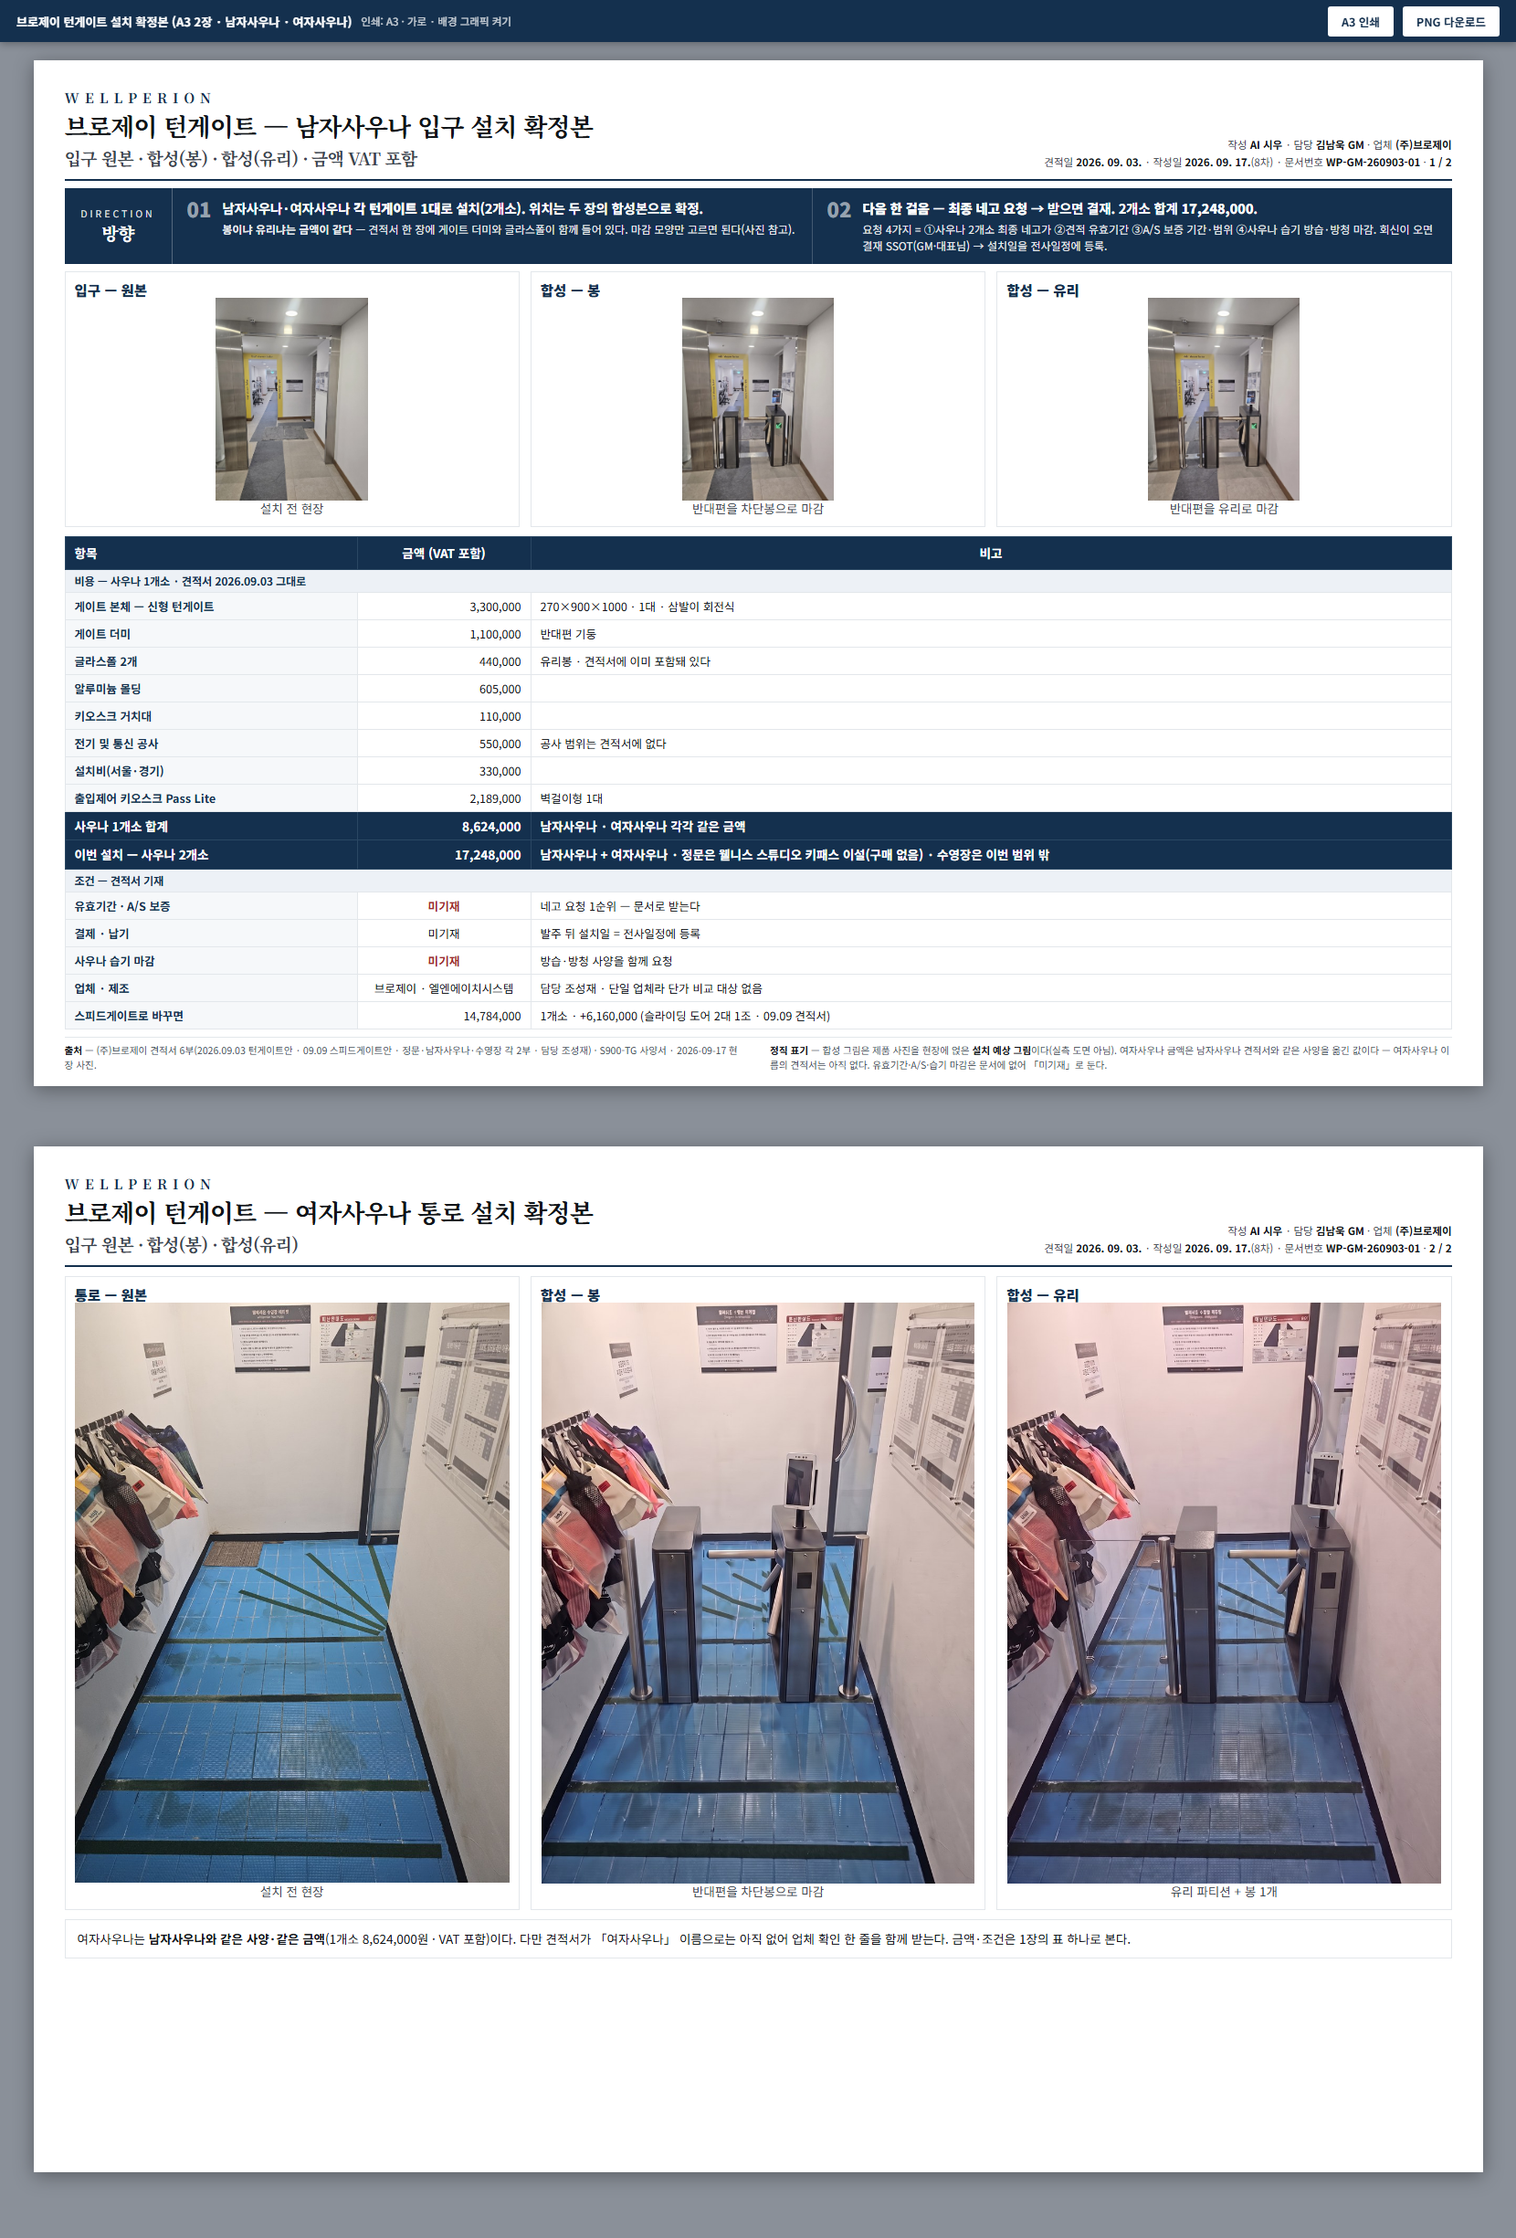
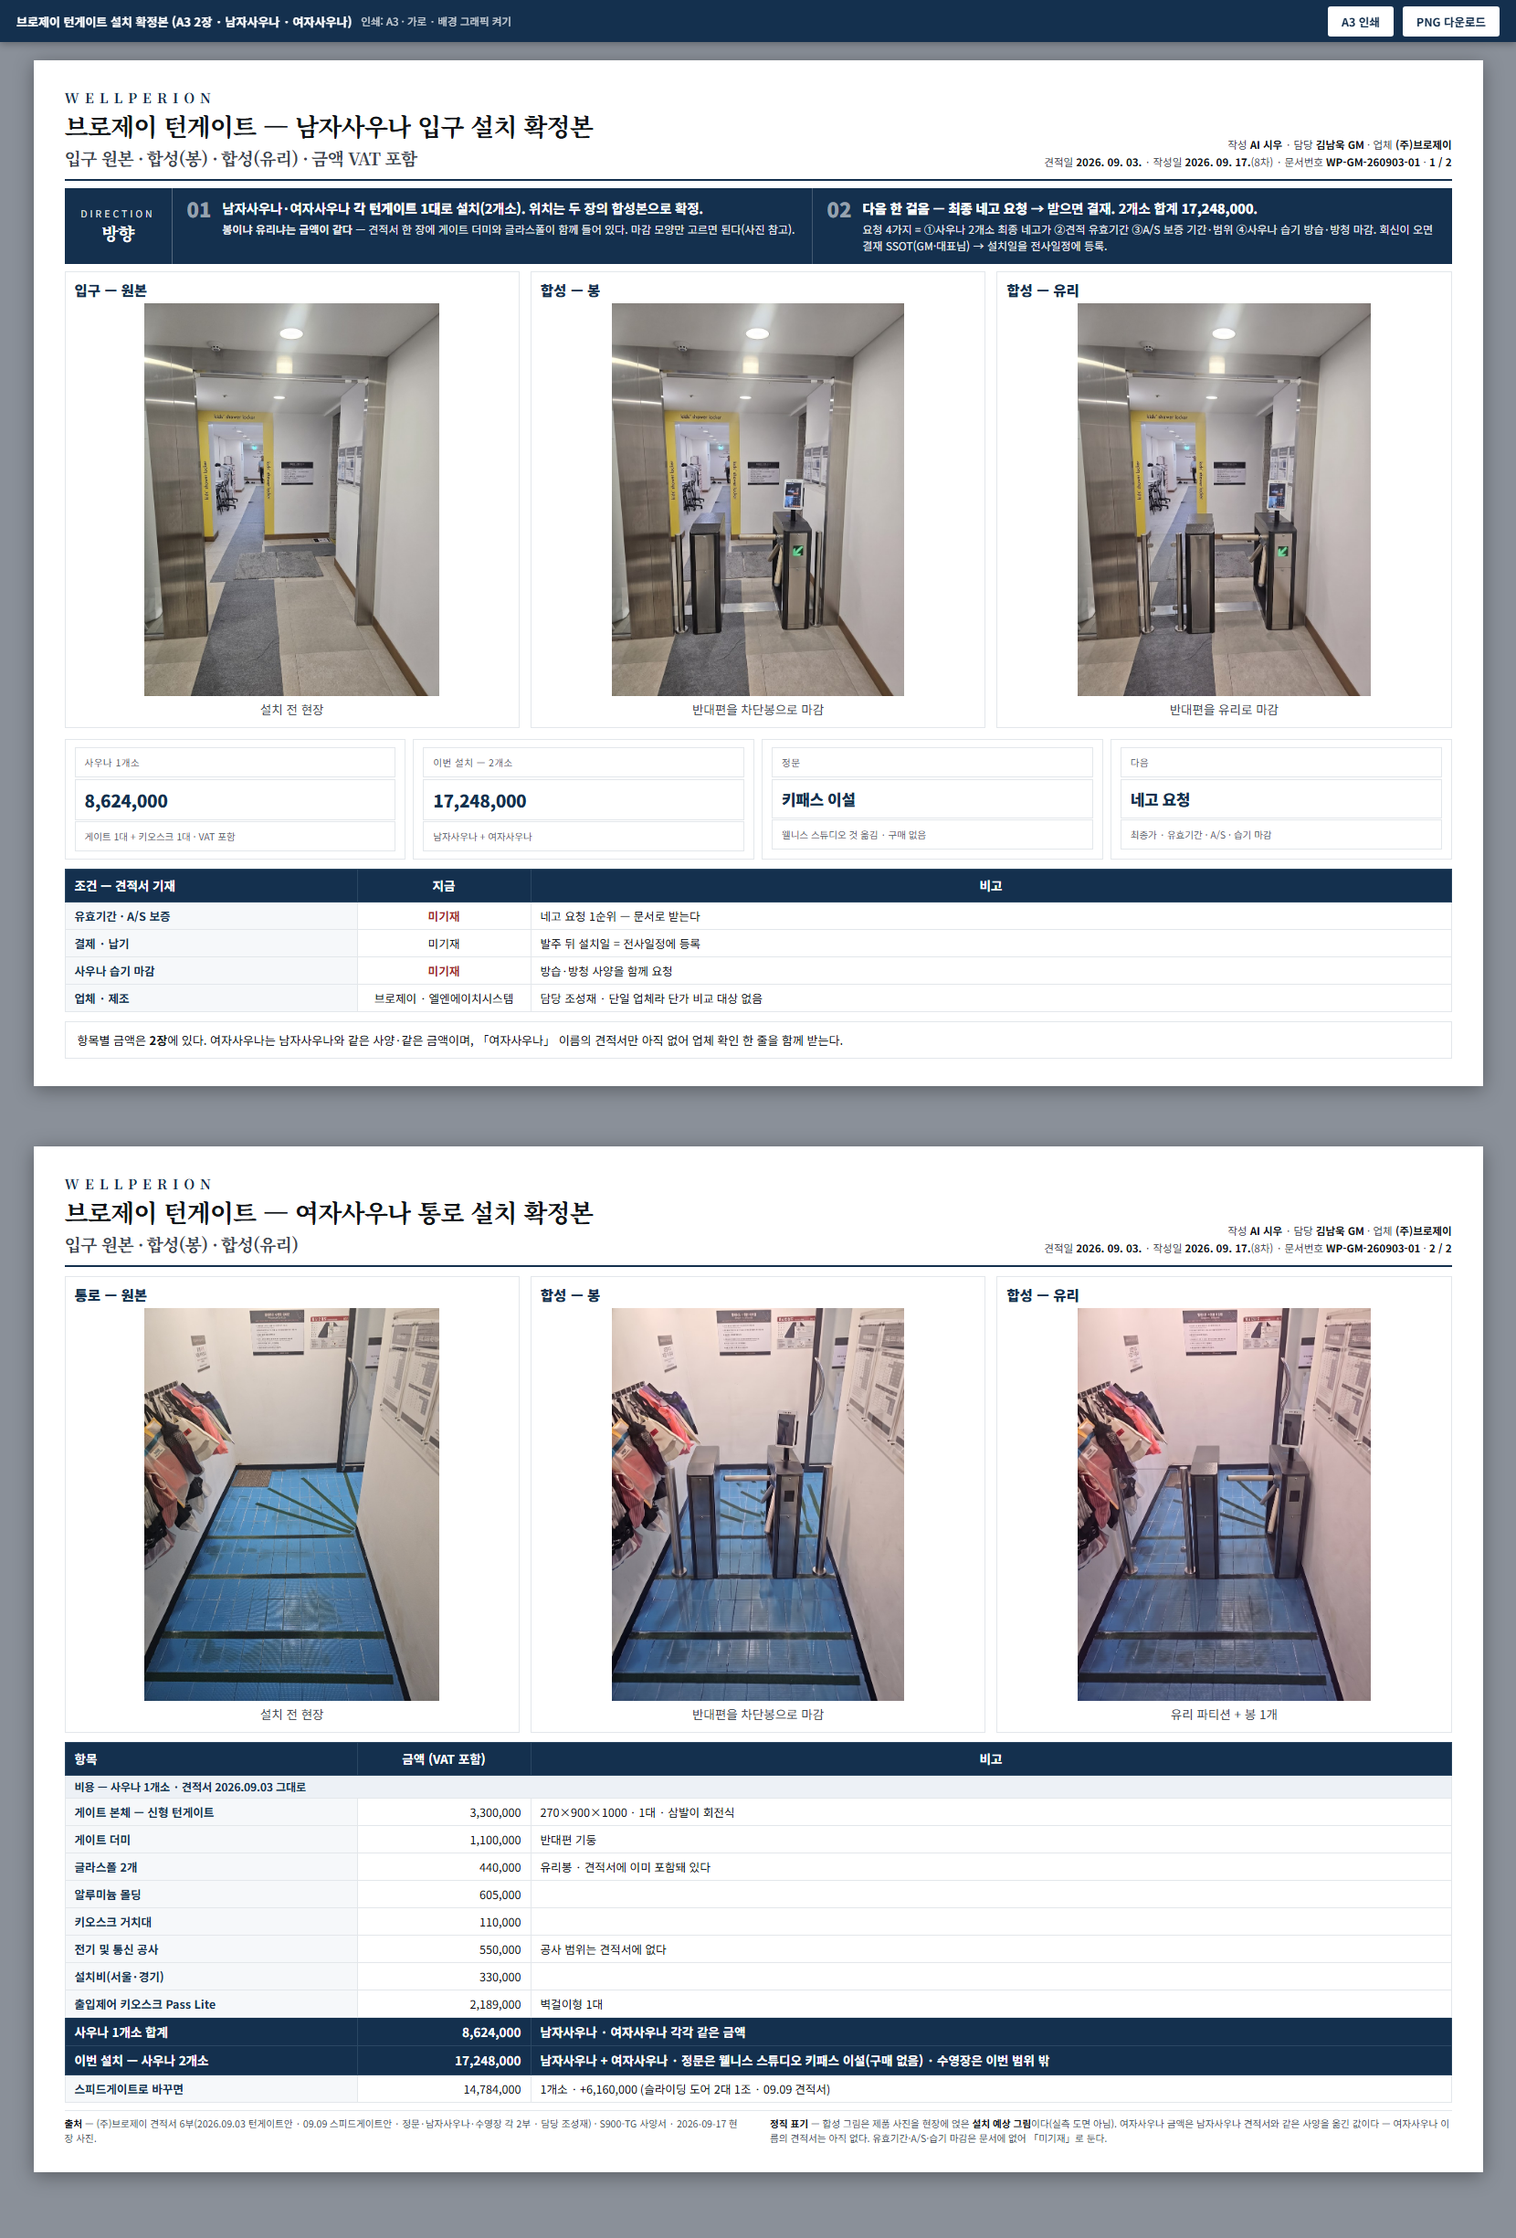
[시우] docs(chairman): 턴게이트 A3 9차 — 두 장 밸런스(사진 3장 같은 크기 · 1장=방향+요약 4칸+조건 · 2장=항목별 금액 표+각주) [GM 지시 2026-09-17 「밸런스가 깨진다」]

diff --git a/3. 웰페리온 가이드/coo/chairman/260903_브로제이_턴게이트키오스크_견적요약_A3.html b/3. 웰페리온 가이드/coo/chairman/260903_브로제이_턴게이트키오스크_견적요약_A3.html
@@ -95,45 +95,42 @@
       <div class="it"><div class="n">02</div><div><div class="q"><b>다음 한 걸음</b> — <b>최종 네고 요청</b> → 받으면 결재. 2개소 합계 <b>17,248,000</b>.</div><div class="d">요청 4가지 = ①사우나 2개소 최종 네고가 ②견적 유효기간 ③A/S 보증 기간·범위 ④사우나 습기 방습·방청 마감. 회신이 오면 결재 SSOT(GM·대표님) → 설치일을 전사일정에 등록.</div></div></div>
     </div>
   </div>
-  <div style="display:flex; gap:12px; margin-top:8px; height:280px">
+  <div style="display:flex; gap:12px; margin-top:8px; height:500px">
       <div style="flex:1; min-width:0; border:1px solid var(--line); padding:8px 10px 10px; display:flex; flex-direction:column">
         <div style="font-weight:800; font-size:15.5px; color:var(--navy)">입구 — 원본</div>
-        <div style="flex:1; min-height:0; display:flex; align-items:center; justify-content:center; margin:6px 0"><img src="assets/turngate/m_orig.jpg" alt="입구 — 원본" style="max-width:100%; max-height:222px; object-fit:contain"></div>
+        <div style="flex:1; min-height:0; display:flex; align-items:center; justify-content:center; margin:6px 0"><img src="assets/turngate/m_orig.jpg" alt="입구 — 원본" style="max-width:100%; max-height:430px; object-fit:contain"></div>
         <div style="text-align:center; font-size:13.5px; color:#3C464F">설치 전 현장</div>
       </div>
       <div style="flex:1; min-width:0; border:1px solid var(--line); padding:8px 10px 10px; display:flex; flex-direction:column">
         <div style="font-weight:800; font-size:15.5px; color:var(--navy)">합성 — 봉</div>
-        <div style="flex:1; min-height:0; display:flex; align-items:center; justify-content:center; margin:6px 0"><img src="assets/turngate/m_bong.jpg" alt="합성 — 봉" style="max-width:100%; max-height:222px; object-fit:contain"></div>
+        <div style="flex:1; min-height:0; display:flex; align-items:center; justify-content:center; margin:6px 0"><img src="assets/turngate/m_bong.jpg" alt="합성 — 봉" style="max-width:100%; max-height:430px; object-fit:contain"></div>
         <div style="text-align:center; font-size:13.5px; color:#3C464F">반대편을 차단봉으로 마감</div>
       </div>
       <div style="flex:1; min-width:0; border:1px solid var(--line); padding:8px 10px 10px; display:flex; flex-direction:column">
         <div style="font-weight:800; font-size:15.5px; color:var(--navy)">합성 — 유리</div>
-        <div style="flex:1; min-height:0; display:flex; align-items:center; justify-content:center; margin:6px 0"><img src="assets/turngate/m_glass.jpg" alt="합성 — 유리" style="max-width:100%; max-height:222px; object-fit:contain"></div>
+        <div style="flex:1; min-height:0; display:flex; align-items:center; justify-content:center; margin:6px 0"><img src="assets/turngate/m_glass.jpg" alt="합성 — 유리" style="max-width:100%; max-height:430px; object-fit:contain"></div>
         <div style="text-align:center; font-size:13.5px; color:#3C464F">반대편을 유리로 마감</div>
       </div>
   </div>
 
+  <div class="kpi" style="margin-top:12px">
+    <div><div class="l">사우나 1개소</div><div class="v">8,624,000</div><div class="s">게이트 1대 + 키오스크 1대 · VAT 포함</div></div>
+    <div><div class="l">이번 설치 — 2개소</div><div class="v">17,248,000</div><div class="s">남자사우나 + 여자사우나</div></div>
+    <div><div class="l">정문</div><div class="v" style="font-size:17px">키패스 이설</div><div class="s">웰니스 스튜디오 것 옮김 · 구매 없음</div></div>
+    <div><div class="l">다음</div><div class="v" style="font-size:17px">네고 요청</div><div class="s">최종가 · 유효기간 · A/S · 습기 마감</div></div>
+  </div>
+
   <table style="margin-top:10px">
     <colgroup><col style="width:320px"><col style="width:190px"><col></colgroup>
-    <thead><tr><th class="k">항목</th><th>금액 (VAT 포함)</th><th>비고</th></tr></thead>
+    <thead><tr><th class="k">조건 — 견적서 기재</th><th>지금</th><th>비고</th></tr></thead>
     <tbody>
-      <tr class="grp"><td colspan="3">비용 — 사우나 1개소 · 견적서 2026.09.03 그대로</td></tr>
-      <tr><td class="k">게이트 본체 — 신형 턴게이트</td><td class="n">3,300,000</td><td>270×900×1000 · 1대 · 삼발이 회전식</td></tr><tr><td class="k">게이트 더미</td><td class="n">1,100,000</td><td>반대편 기둥</td></tr><tr><td class="k">글라스폴 2개</td><td class="n">440,000</td><td>유리봉 · 견적서에 이미 포함돼 있다</td></tr><tr><td class="k">알루미늄 몰딩</td><td class="n">605,000</td><td></td></tr><tr><td class="k">키오스크 거치대</td><td class="n">110,000</td><td></td></tr><tr><td class="k">전기 및 통신 공사</td><td class="n">550,000</td><td>공사 범위는 견적서에 없다</td></tr><tr><td class="k">설치비(서울·경기)</td><td class="n">330,000</td><td></td></tr><tr><td class="k">출입제어 키오스크 Pass Lite</td><td class="n">2,189,000</td><td>벽걸이형 1대</td></tr>
-      <tr class="total"><td class="k" style="background:var(--navy);color:#fff">사우나 1개소 합계</td><td class="n">8,624,000</td><td>남자사우나 · 여자사우나 각각 같은 금액</td></tr>
-      <tr class="total"><td class="k" style="background:var(--navy);color:#fff">이번 설치 — 사우나 2개소</td><td class="n">17,248,000</td><td>남자사우나 + 여자사우나 · 정문은 웰니스 스튜디오 키패스 이설(구매 없음) · 수영장은 이번 범위 밖</td></tr>
-      <tr class="grp"><td colspan="3">조건 — 견적서 기재</td></tr>
       <tr><td class="k">유효기간 · A/S 보증</td><td class="c"><b class="bad">미기재</b></td><td>네고 요청 1순위 — 문서로 받는다</td></tr>
       <tr><td class="k">결제 · 납기</td><td class="c">미기재</td><td>발주 뒤 설치일 = 전사일정에 등록</td></tr>
       <tr><td class="k">사우나 습기 마감</td><td class="c"><b class="bad">미기재</b></td><td>방습·방청 사양을 함께 요청</td></tr>
       <tr><td class="k">업체 · 제조</td><td class="c">브로제이 · 엘엔에이치시스템</td><td>담당 조성재 · 단일 업체라 단가 비교 대상 없음</td></tr>
-      <tr><td class="k">스피드게이트로 바꾸면</td><td class="n">14,784,000</td><td>1개소 · +6,160,000 (슬라이딩 도어 2대 1조 · 09.09 견적서)</td></tr>
     </tbody>
   </table>
-
-  <div class="foot">
-    <div><b>출처</b> — (주)브로제이 견적서 6부(2026.09.03 턴게이트안 · 09.09 스피드게이트안 · 정문·남자사우나·수영장 각 2부 · 담당 조성재) · S900-TG 사양서 · 2026-09-17 현장 사진.</div>
-    <div><b>정직 표기</b> — 합성 그림은 제품 사진을 현장에 얹은 <b>설치 예상 그림</b>이다(실측 도면 아님). 여자사우나 금액은 남자사우나 견적서와 같은 사양을 옮긴 값이다 — 여자사우나 이름의 견적서는 아직 없다. 유효기간·A/S·습기 마감은 문서에 없어 「미기재」로 둔다.</div>
-  </div>
+  <div class="box" style="margin-top:10px"><div style="font-size:13px; line-height:1.5">항목별 금액은 <b>2장</b>에 있다. 여자사우나는 남자사우나와 같은 사양·같은 금액이며, 「여자사우나」 이름의 견적서만 아직 없어 업체 확인 한 줄을 함께 받는다.</div></div>
 </div>
 
 <div class="page" id="sheet2">
@@ -147,26 +144,39 @@
       견적일 <b>2026. 09. 03.</b> · 작성일 <b>2026. 09. 17.</b>(8차) · 문서번호 <b>WP-GM-260903-01</b> · <b>2 / 2</b>
     </div>
   </div>
-  <div style="display:flex; gap:12px; margin-top:10px; height:694px">
+  <div style="display:flex; gap:12px; margin-top:10px; height:500px">
       <div style="flex:1; min-width:0; border:1px solid var(--line); padding:8px 10px 10px; display:flex; flex-direction:column">
         <div style="font-weight:800; font-size:15.5px; color:var(--navy)">통로 — 원본</div>
-        <div style="flex:1; min-height:0; display:flex; align-items:center; justify-content:center; margin:6px 0"><img src="assets/turngate/w_orig.jpg" alt="통로 — 원본" style="max-width:100%; max-height:636px; object-fit:contain"></div>
+        <div style="flex:1; min-height:0; display:flex; align-items:center; justify-content:center; margin:6px 0"><img src="assets/turngate/w_orig.jpg" alt="통로 — 원본" style="max-width:100%; max-height:430px; object-fit:contain"></div>
         <div style="text-align:center; font-size:13.5px; color:#3C464F">설치 전 현장</div>
       </div>
       <div style="flex:1; min-width:0; border:1px solid var(--line); padding:8px 10px 10px; display:flex; flex-direction:column">
         <div style="font-weight:800; font-size:15.5px; color:var(--navy)">합성 — 봉</div>
-        <div style="flex:1; min-height:0; display:flex; align-items:center; justify-content:center; margin:6px 0"><img src="assets/turngate/w_bong.jpg" alt="합성 — 봉" style="max-width:100%; max-height:636px; object-fit:contain"></div>
+        <div style="flex:1; min-height:0; display:flex; align-items:center; justify-content:center; margin:6px 0"><img src="assets/turngate/w_bong.jpg" alt="합성 — 봉" style="max-width:100%; max-height:430px; object-fit:contain"></div>
         <div style="text-align:center; font-size:13.5px; color:#3C464F">반대편을 차단봉으로 마감</div>
       </div>
       <div style="flex:1; min-width:0; border:1px solid var(--line); padding:8px 10px 10px; display:flex; flex-direction:column">
         <div style="font-weight:800; font-size:15.5px; color:var(--navy)">합성 — 유리</div>
-        <div style="flex:1; min-height:0; display:flex; align-items:center; justify-content:center; margin:6px 0"><img src="assets/turngate/w_glass.jpg" alt="합성 — 유리" style="max-width:100%; max-height:636px; object-fit:contain"></div>
+        <div style="flex:1; min-height:0; display:flex; align-items:center; justify-content:center; margin:6px 0"><img src="assets/turngate/w_glass.jpg" alt="합성 — 유리" style="max-width:100%; max-height:430px; object-fit:contain"></div>
         <div style="text-align:center; font-size:13.5px; color:#3C464F">유리 파티션 + 봉 1개</div>
       </div>
   </div>
 
-  <div class="box" style="margin-top:10px">
-    <div style="font-size:13.5px; line-height:1.55">여자사우나는 <b>남자사우나와 같은 사양·같은 금액</b>(1개소 8,624,000원 · VAT 포함)이다. 다만 견적서가 「여자사우나」 이름으로는 아직 없어 업체 확인 한 줄을 함께 받는다. 금액·조건은 1장의 표 하나로 본다.</div>
+  <table style="margin-top:10px">
+    <colgroup><col style="width:320px"><col style="width:190px"><col></colgroup>
+    <thead><tr><th class="k">항목</th><th>금액 (VAT 포함)</th><th>비고</th></tr></thead>
+    <tbody>
+      <tr class="grp"><td colspan="3">비용 — 사우나 1개소 · 견적서 2026.09.03 그대로</td></tr>
+      <tr><td class="k">게이트 본체 — 신형 턴게이트</td><td class="n">3,300,000</td><td>270×900×1000 · 1대 · 삼발이 회전식</td></tr><tr><td class="k">게이트 더미</td><td class="n">1,100,000</td><td>반대편 기둥</td></tr><tr><td class="k">글라스폴 2개</td><td class="n">440,000</td><td>유리봉 · 견적서에 이미 포함돼 있다</td></tr><tr><td class="k">알루미늄 몰딩</td><td class="n">605,000</td><td></td></tr><tr><td class="k">키오스크 거치대</td><td class="n">110,000</td><td></td></tr><tr><td class="k">전기 및 통신 공사</td><td class="n">550,000</td><td>공사 범위는 견적서에 없다</td></tr><tr><td class="k">설치비(서울·경기)</td><td class="n">330,000</td><td></td></tr><tr><td class="k">출입제어 키오스크 Pass Lite</td><td class="n">2,189,000</td><td>벽걸이형 1대</td></tr>
+      <tr class="total"><td class="k" style="background:var(--navy);color:#fff">사우나 1개소 합계</td><td class="n">8,624,000</td><td>남자사우나 · 여자사우나 각각 같은 금액</td></tr>
+      <tr class="total"><td class="k" style="background:var(--navy);color:#fff">이번 설치 — 사우나 2개소</td><td class="n">17,248,000</td><td>남자사우나 + 여자사우나 · 정문은 웰니스 스튜디오 키패스 이설(구매 없음) · 수영장은 이번 범위 밖</td></tr>
+      <tr><td class="k">스피드게이트로 바꾸면</td><td class="n">14,784,000</td><td>1개소 · +6,160,000 (슬라이딩 도어 2대 1조 · 09.09 견적서)</td></tr>
+    </tbody>
+  </table>
+
+  <div class="foot">
+    <div><b>출처</b> — (주)브로제이 견적서 6부(2026.09.03 턴게이트안 · 09.09 스피드게이트안 · 정문·남자사우나·수영장 각 2부 · 담당 조성재) · S900-TG 사양서 · 2026-09-17 현장 사진.</div>
+    <div><b>정직 표기</b> — 합성 그림은 제품 사진을 현장에 얹은 <b>설치 예상 그림</b>이다(실측 도면 아님). 여자사우나 금액은 남자사우나 견적서와 같은 사양을 옮긴 값이다 — 여자사우나 이름의 견적서는 아직 없다. 유효기간·A/S·습기 마감은 문서에 없어 「미기재」로 둔다.</div>
   </div>
 </div>
 
